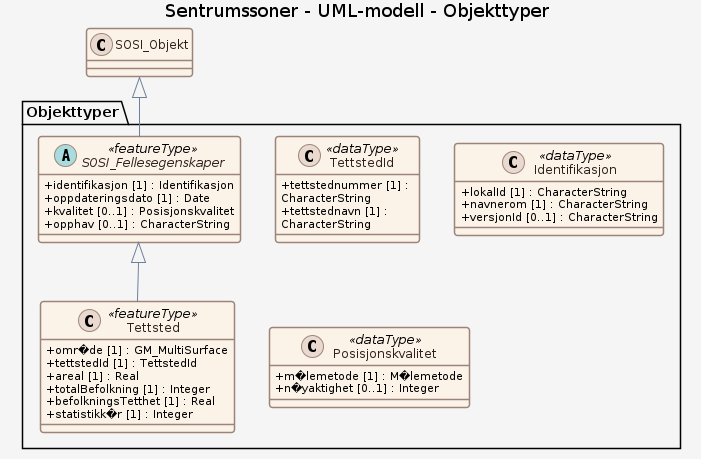
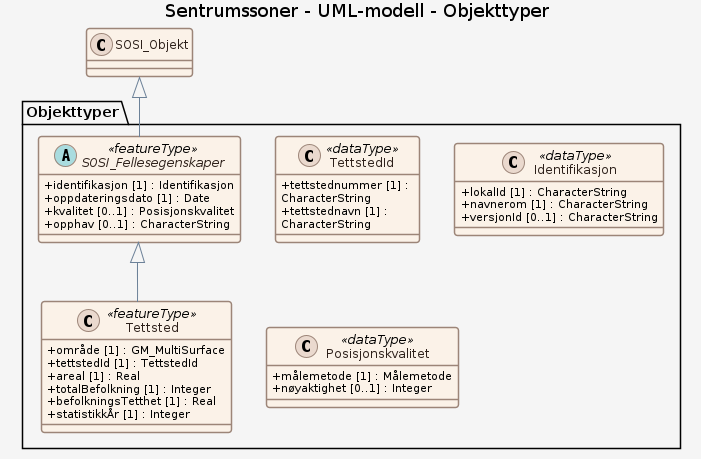
update produktspesifikasjon

Changed region(s): [[0.03, 0.6405, 0.689, 0.9455], [0.1797, 0.549, 0.2097, 0.5795]]

diff --git a/produktspesifikasjon/sentrumssoner/uml-modell/objektkatalog.md b/produktspesifikasjon/sentrumssoner/uml-modell/objektkatalog.md
@@ -1,12 +1,12 @@
 ### Datamodell
 
-**Kilde:** [SOSI UML XMI-fil](inputs/sentrumssoner/model.xmi)
+**Kilde:** [SOSI UML XMI-fil](https://sosi.geonorge.no/svn/SOSI/SOSI%20Del%203/SSB/Tettsted-20261001.xml)
 
 <a href="uml-modell_feature_catalogue.png" title="Klikk for stor visning"><img src="uml-modell_feature_catalogue.png" alt="Datamodell UML-modell" style="max-width: 100%; height: auto;" /></a>
 
 #### Tettsted
 
-omr�de hvor det bor minst 200 personer, og avstanden mellom husene normalt ikke overstiger 50 meter (SSB)<br /><br />Merknad:<br />Hussamlinger som naturlig  h�rer med til tettstedet, tas med inntil en avstand p� 400 meter fra tettstedskjernen.
+område hvor det bor minst 200 personer, og avstanden mellom husene normalt ikke overstiger 50 meter (SSB)<br /><br />Merknad:<br />Hussamlinger som naturlig  hører med til tettstedet, tas med inntil en avstand på 400 meter fra tettstedskjernen.
 
 Egenskaper
 
@@ -18,7 +18,7 @@ Egenskaper
   <tbody>
     <tr>
       <th scope="row">Navn:</th>
-      <td><strong>omr�de</strong></td>
+      <td><strong>område</strong></td>
     </tr>
     <tr>
       <th scope="row">Definisjon:</th>
@@ -72,7 +72,7 @@ Egenskaper
     </tr>
     <tr>
       <th scope="row">Definisjon:</th>
-      <td>best�r av en 4-sifret kode<br /><br />Merknad: Det skal benyttes ledende nuller.</td>
+      <td>består av en 4-sifret kode<br /><br />Merknad: Det skal benyttes ledende nuller.</td>
     </tr>
     <tr>
       <th scope="row">Multiplisitet:</th>
@@ -97,7 +97,7 @@ Egenskaper
     </tr>
     <tr>
       <th scope="row">Definisjon:</th>
-      <td>navn p� tettsted bestemt av SSB</td>
+      <td>navn på tettsted bestemt av SSB</td>
     </tr>
     <tr>
       <th scope="row">Multiplisitet:</th>
@@ -193,11 +193,11 @@ Egenskaper
   <tbody>
     <tr>
       <th scope="row">Navn:</th>
-      <td><strong>statistikk�r</strong></td>
+      <td><strong>statistikkÅr</strong></td>
     </tr>
     <tr>
       <th scope="row">Definisjon:</th>
-      <td>angivelse av �rstallsversjon for statistikken</td>
+      <td>angivelse av årstallsversjon for statistikken</td>
     </tr>
     <tr>
       <th scope="row">Multiplisitet:</th>
@@ -217,7 +217,7 @@ SOSI_Fellesegenskaper
 
 #### SOSI_Fellesegenskaper (abstrakt)
 
-abstrakt objekttype som b�rer sentrale egenskaper som er anbefalt for bruk i produktspesifikasjoner.<br /><br />Merknad: Disse egenskapene skal derfor ikke modelleres inn i fagomr�demodeller.
+abstrakt objekttype som bærer sentrale egenskaper som er anbefalt for bruk i produktspesifikasjoner.<br /><br />Merknad: Disse egenskapene skal derfor ikke modelleres inn i fagområdemodeller.
 
 Egenskaper
 
@@ -258,7 +258,7 @@ Egenskaper
     </tr>
     <tr>
       <th scope="row">Definisjon:</th>
-      <td>lokal identifikator av et objekt<br /><br />Merknad: Det er dataleverend�rens ansvar � s�rge for at den lokale identifikatoren er unik innenfor navnerommet.</td>
+      <td>lokal identifikator av et objekt<br /><br />Merknad: Det er dataleverendørens ansvar å sørge for at den lokale identifikatoren er unik innenfor navnerommet.</td>
     </tr>
     <tr>
       <th scope="row">Multiplisitet:</th>
@@ -283,7 +283,7 @@ Egenskaper
     </tr>
     <tr>
       <th scope="row">Definisjon:</th>
-      <td>navnerom som unikt identifiserer datakilden til et objekt, anbefales � v�re en http-URI<br /><br />Eksempel: <a href="http://data.geonorge.no/SentraltStedsnavnsregister/1.0">http://data.geonorge.no/SentraltStedsnavnsregister/1.0</a><br /><br />Merknad : Verdien for nanverom vil eies av den dataprodusent som har ansvar for de unike identifikatorene og m� v�re registrert i data.geonorge.no eller data.norge.no</td>
+      <td>navnerom som unikt identifiserer datakilden til et objekt, anbefales å være en http-URI<br /><br />Eksempel: <a href="http://data.geonorge.no/SentraltStedsnavnsregister/1.0">http://data.geonorge.no/SentraltStedsnavnsregister/1.0</a><br /><br />Merknad : Verdien for nanverom vil eies av den dataprodusent som har ansvar for de unike identifikatorene og må være registrert i data.geonorge.no eller data.norge.no</td>
     </tr>
     <tr>
       <th scope="row">Multiplisitet:</th>
@@ -333,7 +333,7 @@ Egenskaper
     </tr>
     <tr>
       <th scope="row">Definisjon:</th>
-      <td>tidspunkt for siste endring p� objektet<br /><br />Merknad:<br />Oppdateringsdato kan v�re forskjellig fra datafangsdato ved at data som er registrert kan bufres en kortere eller lengre periode f�r disse legges inn i datasystemet (databasen).</td>
+      <td>tidspunkt for siste endring på objektet<br /><br />Merknad:<br />Oppdateringsdato kan være forskjellig fra datafangsdato ved at data som er registrert kan bufres en kortere eller lengre periode før disse legges inn i datasystemet (databasen).</td>
     </tr>
     <tr>
       <th scope="row">Multiplisitet:</th>
@@ -358,7 +358,7 @@ Egenskaper
     </tr>
     <tr>
       <th scope="row">Definisjon:</th>
-      <td>beskrivelse av kvaliteten p� stedfestingen<br /><br />Merknad: Denne er identisk med ..KVALITET i tidligere versjoner av SOSI.</td>
+      <td>beskrivelse av kvaliteten på stedfestingen<br /><br />Merknad: Denne er identisk med ..KVALITET i tidligere versjoner av SOSI.</td>
     </tr>
     <tr>
       <th scope="row">Multiplisitet:</th>
@@ -379,11 +379,11 @@ Egenskaper
   <tbody>
     <tr>
       <th scope="row">Navn:</th>
-      <td><strong>kvalitet.m�lemetode</strong></td>
+      <td><strong>kvalitet.målemetode</strong></td>
     </tr>
     <tr>
       <th scope="row">Definisjon:</th>
-      <td>metode for m�ling i grunnriss (x,y), og h�yde (z) n�r metoden er den samme som ved m�ling i grunnriss</td>
+      <td>metode for måling i grunnriss (x,y), og høyde (z) når metoden er den samme som ved måling i grunnriss</td>
     </tr>
     <tr>
       <th scope="row">Multiplisitet:</th>
@@ -391,7 +391,7 @@ Egenskaper
     </tr>
     <tr>
       <th scope="row">Type:</th>
-      <td>M�lemetode</td>
+      <td>Målemetode</td>
     </tr>
     <tr>
       <th scope="row">Tillatte verdier:</th>
@@ -408,7 +408,7 @@ Egenskaper
   <tbody>
     <tr>
       <th scope="row">Navn:</th>
-      <td><strong>kvalitet.n�yaktighet</strong></td>
+      <td><strong>kvalitet.nøyaktighet</strong></td>
     </tr>
     <tr>
       <th scope="row">Definisjon:</th>
@@ -437,7 +437,7 @@ Egenskaper
     </tr>
     <tr>
       <th scope="row">Definisjon:</th>
-      <td>referanse til opphavsmaterialet, kildematerialet, organisasjons/publiseringskilde<br /><br />Merknad:<br />Kan ogs� beskrive navn p� person og �rsak til oppdatering</td>
+      <td>referanse til opphavsmaterialet, kildematerialet, organisasjons/publiseringskilde<br /><br />Merknad:<br />Kan også beskrive navn på person og årsak til oppdatering</td>
     </tr>
     <tr>
       <th scope="row">Multiplisitet:</th>
@@ -457,7 +457,7 @@ SOSI_Objekt
 
 ### Kodelister
 
-#### «CodeList» M�lemetode
+#### «CodeList» Målemetode
 
 **Definisjon:** metode som ligger til grunn for registrering av posisjon
 

diff --git a/produktspesifikasjon/sentrumssoner/uml-modell/uml-modell_feature_catalogue.md b/produktspesifikasjon/sentrumssoner/uml-modell/uml-modell_feature_catalogue.md
@@ -1,6 +1,6 @@
 #### Tettsted
 
-omr�de hvor det bor minst 200 personer, og avstanden mellom husene normalt ikke overstiger 50 meter (SSB)<br /><br />Merknad:<br />Hussamlinger som naturlig  h�rer med til tettstedet, tas med inntil en avstand p� 400 meter fra tettstedskjernen.
+område hvor det bor minst 200 personer, og avstanden mellom husene normalt ikke overstiger 50 meter (SSB)<br /><br />Merknad:<br />Hussamlinger som naturlig  hører med til tettstedet, tas med inntil en avstand på 400 meter fra tettstedskjernen.
 
 Egenskaper
 
@@ -12,7 +12,7 @@ Egenskaper
   <tbody>
     <tr>
       <th scope="row">Navn:</th>
-      <td><strong>omr�de</strong></td>
+      <td><strong>område</strong></td>
     </tr>
     <tr>
       <th scope="row">Definisjon:</th>
@@ -66,7 +66,7 @@ Egenskaper
     </tr>
     <tr>
       <th scope="row">Definisjon:</th>
-      <td>best�r av en 4-sifret kode<br /><br />Merknad: Det skal benyttes ledende nuller.</td>
+      <td>består av en 4-sifret kode<br /><br />Merknad: Det skal benyttes ledende nuller.</td>
     </tr>
     <tr>
       <th scope="row">Multiplisitet:</th>
@@ -91,7 +91,7 @@ Egenskaper
     </tr>
     <tr>
       <th scope="row">Definisjon:</th>
-      <td>navn p� tettsted bestemt av SSB</td>
+      <td>navn på tettsted bestemt av SSB</td>
     </tr>
     <tr>
       <th scope="row">Multiplisitet:</th>
@@ -187,11 +187,11 @@ Egenskaper
   <tbody>
     <tr>
       <th scope="row">Navn:</th>
-      <td><strong>statistikk�r</strong></td>
+      <td><strong>statistikkÅr</strong></td>
     </tr>
     <tr>
       <th scope="row">Definisjon:</th>
-      <td>angivelse av �rstallsversjon for statistikken</td>
+      <td>angivelse av årstallsversjon for statistikken</td>
     </tr>
     <tr>
       <th scope="row">Multiplisitet:</th>
@@ -211,7 +211,7 @@ SOSI_Fellesegenskaper
 
 #### SOSI_Fellesegenskaper (abstrakt)
 
-abstrakt objekttype som b�rer sentrale egenskaper som er anbefalt for bruk i produktspesifikasjoner.<br /><br />Merknad: Disse egenskapene skal derfor ikke modelleres inn i fagomr�demodeller.
+abstrakt objekttype som bærer sentrale egenskaper som er anbefalt for bruk i produktspesifikasjoner.<br /><br />Merknad: Disse egenskapene skal derfor ikke modelleres inn i fagområdemodeller.
 
 Egenskaper
 
@@ -252,7 +252,7 @@ Egenskaper
     </tr>
     <tr>
       <th scope="row">Definisjon:</th>
-      <td>lokal identifikator av et objekt<br /><br />Merknad: Det er dataleverend�rens ansvar � s�rge for at den lokale identifikatoren er unik innenfor navnerommet.</td>
+      <td>lokal identifikator av et objekt<br /><br />Merknad: Det er dataleverendørens ansvar å sørge for at den lokale identifikatoren er unik innenfor navnerommet.</td>
     </tr>
     <tr>
       <th scope="row">Multiplisitet:</th>
@@ -277,7 +277,7 @@ Egenskaper
     </tr>
     <tr>
       <th scope="row">Definisjon:</th>
-      <td>navnerom som unikt identifiserer datakilden til et objekt, anbefales � v�re en http-URI<br /><br />Eksempel: <a href="http://data.geonorge.no/SentraltStedsnavnsregister/1.0">http://data.geonorge.no/SentraltStedsnavnsregister/1.0</a><br /><br />Merknad : Verdien for nanverom vil eies av den dataprodusent som har ansvar for de unike identifikatorene og m� v�re registrert i data.geonorge.no eller data.norge.no</td>
+      <td>navnerom som unikt identifiserer datakilden til et objekt, anbefales å være en http-URI<br /><br />Eksempel: <a href="http://data.geonorge.no/SentraltStedsnavnsregister/1.0">http://data.geonorge.no/SentraltStedsnavnsregister/1.0</a><br /><br />Merknad : Verdien for nanverom vil eies av den dataprodusent som har ansvar for de unike identifikatorene og må være registrert i data.geonorge.no eller data.norge.no</td>
     </tr>
     <tr>
       <th scope="row">Multiplisitet:</th>
@@ -327,7 +327,7 @@ Egenskaper
     </tr>
     <tr>
       <th scope="row">Definisjon:</th>
-      <td>tidspunkt for siste endring p� objektet<br /><br />Merknad:<br />Oppdateringsdato kan v�re forskjellig fra datafangsdato ved at data som er registrert kan bufres en kortere eller lengre periode f�r disse legges inn i datasystemet (databasen).</td>
+      <td>tidspunkt for siste endring på objektet<br /><br />Merknad:<br />Oppdateringsdato kan være forskjellig fra datafangsdato ved at data som er registrert kan bufres en kortere eller lengre periode før disse legges inn i datasystemet (databasen).</td>
     </tr>
     <tr>
       <th scope="row">Multiplisitet:</th>
@@ -352,7 +352,7 @@ Egenskaper
     </tr>
     <tr>
       <th scope="row">Definisjon:</th>
-      <td>beskrivelse av kvaliteten p� stedfestingen<br /><br />Merknad: Denne er identisk med ..KVALITET i tidligere versjoner av SOSI.</td>
+      <td>beskrivelse av kvaliteten på stedfestingen<br /><br />Merknad: Denne er identisk med ..KVALITET i tidligere versjoner av SOSI.</td>
     </tr>
     <tr>
       <th scope="row">Multiplisitet:</th>
@@ -373,11 +373,11 @@ Egenskaper
   <tbody>
     <tr>
       <th scope="row">Navn:</th>
-      <td><strong>kvalitet.m�lemetode</strong></td>
+      <td><strong>kvalitet.målemetode</strong></td>
     </tr>
     <tr>
       <th scope="row">Definisjon:</th>
-      <td>metode for m�ling i grunnriss (x,y), og h�yde (z) n�r metoden er den samme som ved m�ling i grunnriss</td>
+      <td>metode for måling i grunnriss (x,y), og høyde (z) når metoden er den samme som ved måling i grunnriss</td>
     </tr>
     <tr>
       <th scope="row">Multiplisitet:</th>
@@ -385,7 +385,7 @@ Egenskaper
     </tr>
     <tr>
       <th scope="row">Type:</th>
-      <td>M�lemetode</td>
+      <td>Målemetode</td>
     </tr>
     <tr>
       <th scope="row">Tillatte verdier:</th>
@@ -402,7 +402,7 @@ Egenskaper
   <tbody>
     <tr>
       <th scope="row">Navn:</th>
-      <td><strong>kvalitet.n�yaktighet</strong></td>
+      <td><strong>kvalitet.nøyaktighet</strong></td>
     </tr>
     <tr>
       <th scope="row">Definisjon:</th>
@@ -431,7 +431,7 @@ Egenskaper
     </tr>
     <tr>
       <th scope="row">Definisjon:</th>
-      <td>referanse til opphavsmaterialet, kildematerialet, organisasjons/publiseringskilde<br /><br />Merknad:<br />Kan ogs� beskrive navn p� person og �rsak til oppdatering</td>
+      <td>referanse til opphavsmaterialet, kildematerialet, organisasjons/publiseringskilde<br /><br />Merknad:<br />Kan også beskrive navn på person og årsak til oppdatering</td>
     </tr>
     <tr>
       <th scope="row">Multiplisitet:</th>
@@ -451,7 +451,7 @@ SOSI_Objekt
 
 ### Kodelister
 
-#### «CodeList» M�lemetode
+#### «CodeList» Målemetode
 
 **Definisjon:** metode som ligger til grunn for registrering av posisjon
 
